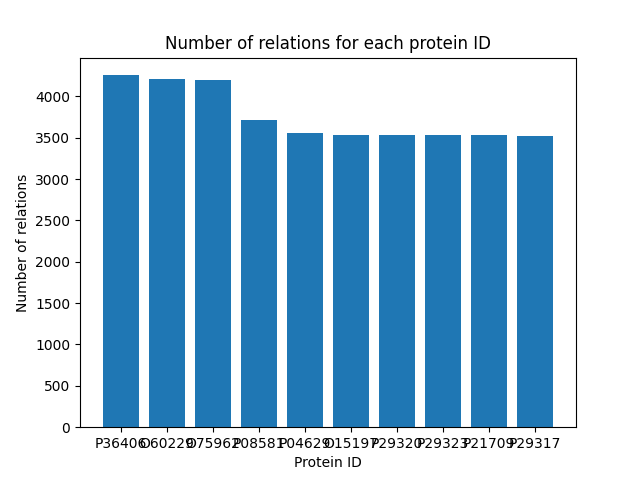
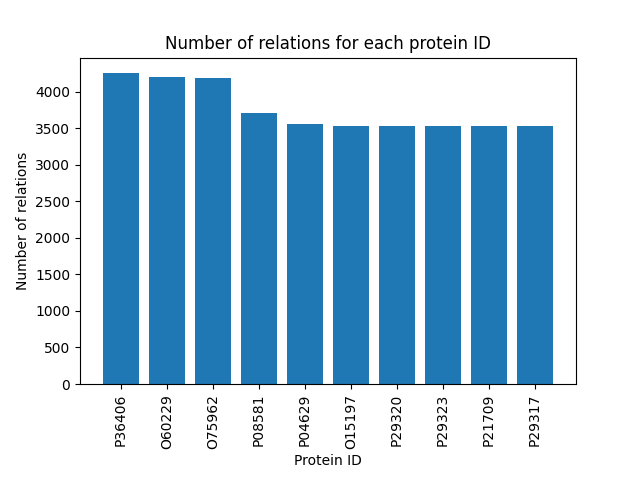
update

diff --git a/python/blueprints/statBP.py b/python/blueprints/statBP.py
@@ -85,6 +85,9 @@ def plot_graph2(result):
     plt.xlabel("Protein ID")
     plt.ylabel("Number of relations")
     plt.title("Number of relations for each protein ID")
+    plt.xticks(rotation=90)
+    #increase a bit the size of the space below the bars for the labels
+    plt.subplots_adjust(bottom=0.2)
     plt.savefig("static/images/result2.png")
     plt.close()
 
@@ -135,9 +138,12 @@ def plot_graph5(result):
     plt.xlabel("Number of interPro")
     plt.ylabel("Number of proteins")
     plt.title("Number of proteins for each number of interPro")
+    # Rotate x-axis labels for better readability
+    plt.xticks(rotation=90)
+    plt.subplots_adjust(bottom=0.2)
     plt.savefig("static/images/result5.png")
     plt.close()
 
-#plot_graph5(result5)
+plot_graph5(result5)
 
 #C'est cette idée mais il faut trouver les graphes adaptés et les graphes à faire.
